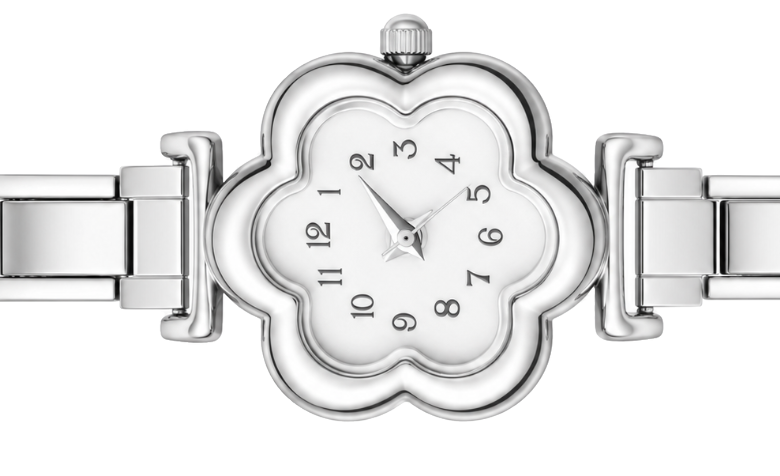
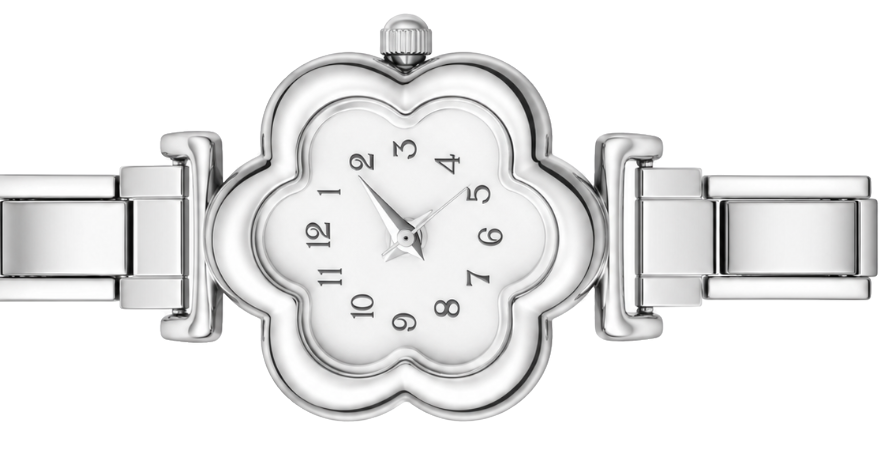
fix: restore full natural end link on right side across all horizontal watch models

Changed region(s): [[0.1231, 0.0294, 1.0, 0.9118]]

diff --git a/assets/bracelet-builder.js b/assets/bracelet-builder.js
@@ -1390,16 +1390,16 @@
       const modelTitle = ((model && model.title) || (this.selectedModel && this.selectedModel.title) || '').toLowerCase();
 
       const dims = {
-        'blush-gold': { width: 367, height: 204 },
-        'blush-silver': { width: 348, height: 203 },
-        'flower': { width: 390, height: 238 },
-        'fuchsia': { width: 367, height: 199 },
-        'glittery': { width: 348, height: 204 },
-        'lilac-gold': { width: 349, height: 204 },
-        'lilac-silver': { width: 338, height: 200 },
+        'blush-gold': { width: 411, height: 204 },
+        'blush-silver': { width: 391, height: 203 },
+        'flower': { width: 440, height: 238 },
+        'fuchsia': { width: 385, height: 199 },
+        'glittery': { width: 392, height: 204 },
+        'lilac-gold': { width: 390, height: 204 },
+        'lilac-silver': { width: 387, height: 200 },
         'pearly-gold': { width: 372, height: 197 },
-        'pearly-silver': { width: 377, height: 194 },
-        'sky-blue': { width: 318, height: 189 }
+        'pearly-silver': { width: 409, height: 194 },
+        'sky-blue': { width: 317, height: 189 }
       };
 
       for (const [key, dim] of Object.entries(dims)) {
